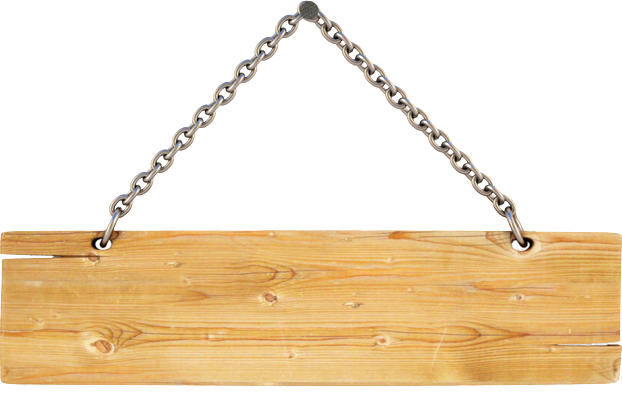
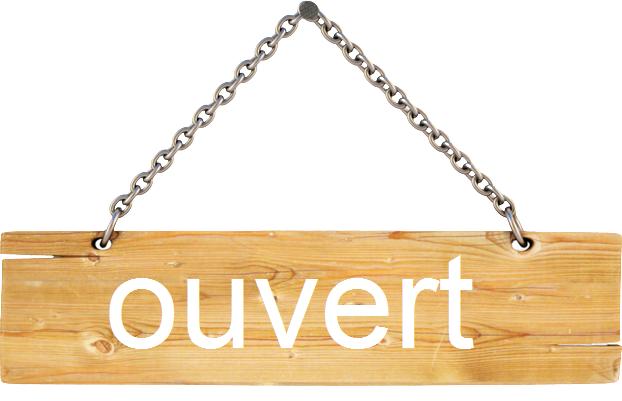
add image back in resto

diff --git a/lib/UI/Screens/store.dart b/lib/UI/Screens/store.dart
@@ -35,7 +35,7 @@ class _StoreScreenState extends State<StoreScreen> {
               width: MediaQuery.of(context).size.width,
               height: MediaQuery.of(context).size.height,
               child: Image.asset(
-                "assets/proto/exp3.png",
+                "assets/proto/rb1.jpeg",
                 fit: BoxFit.cover,
               ),
             ),
@@ -71,16 +71,12 @@ class _StoreScreenState extends State<StoreScreen> {
                 SizedBox(
                   height: 16.0,
                 ),
-                Stack(
-                  alignment: Alignment.center,
-                  children: [
-                    Image.asset("assets/proto/overt.png"),
-                    Text(
-                      "ouvert",
-                      style: textStyleSimple.copyWith(color: Colors.white),
-                    )
-                  ],
-                ),
+                Container(
+                    width: 300,
+                    child: Image.asset(
+                      "assets/proto/overt.png",
+                      fit: BoxFit.fitWidth,
+                    )),
                 SizedBox(
                   height: 16.0,
                 ),
